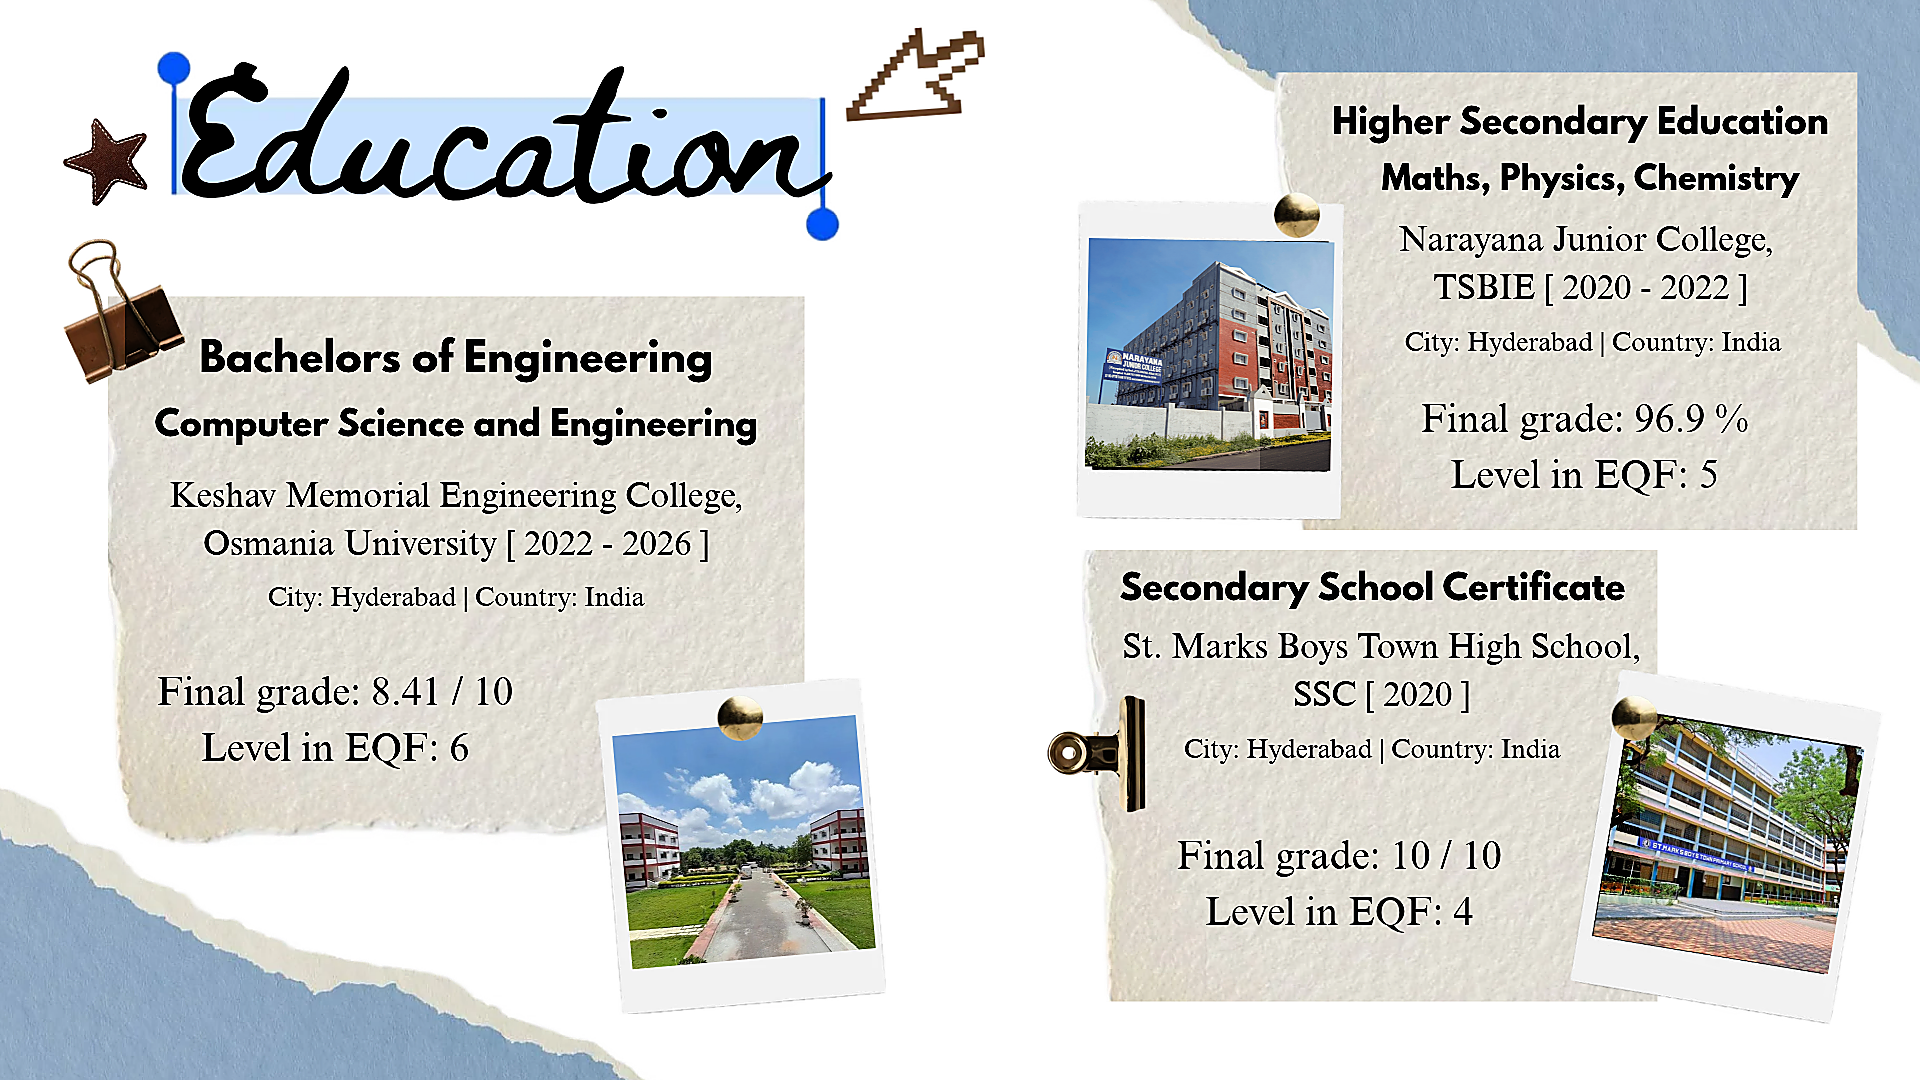
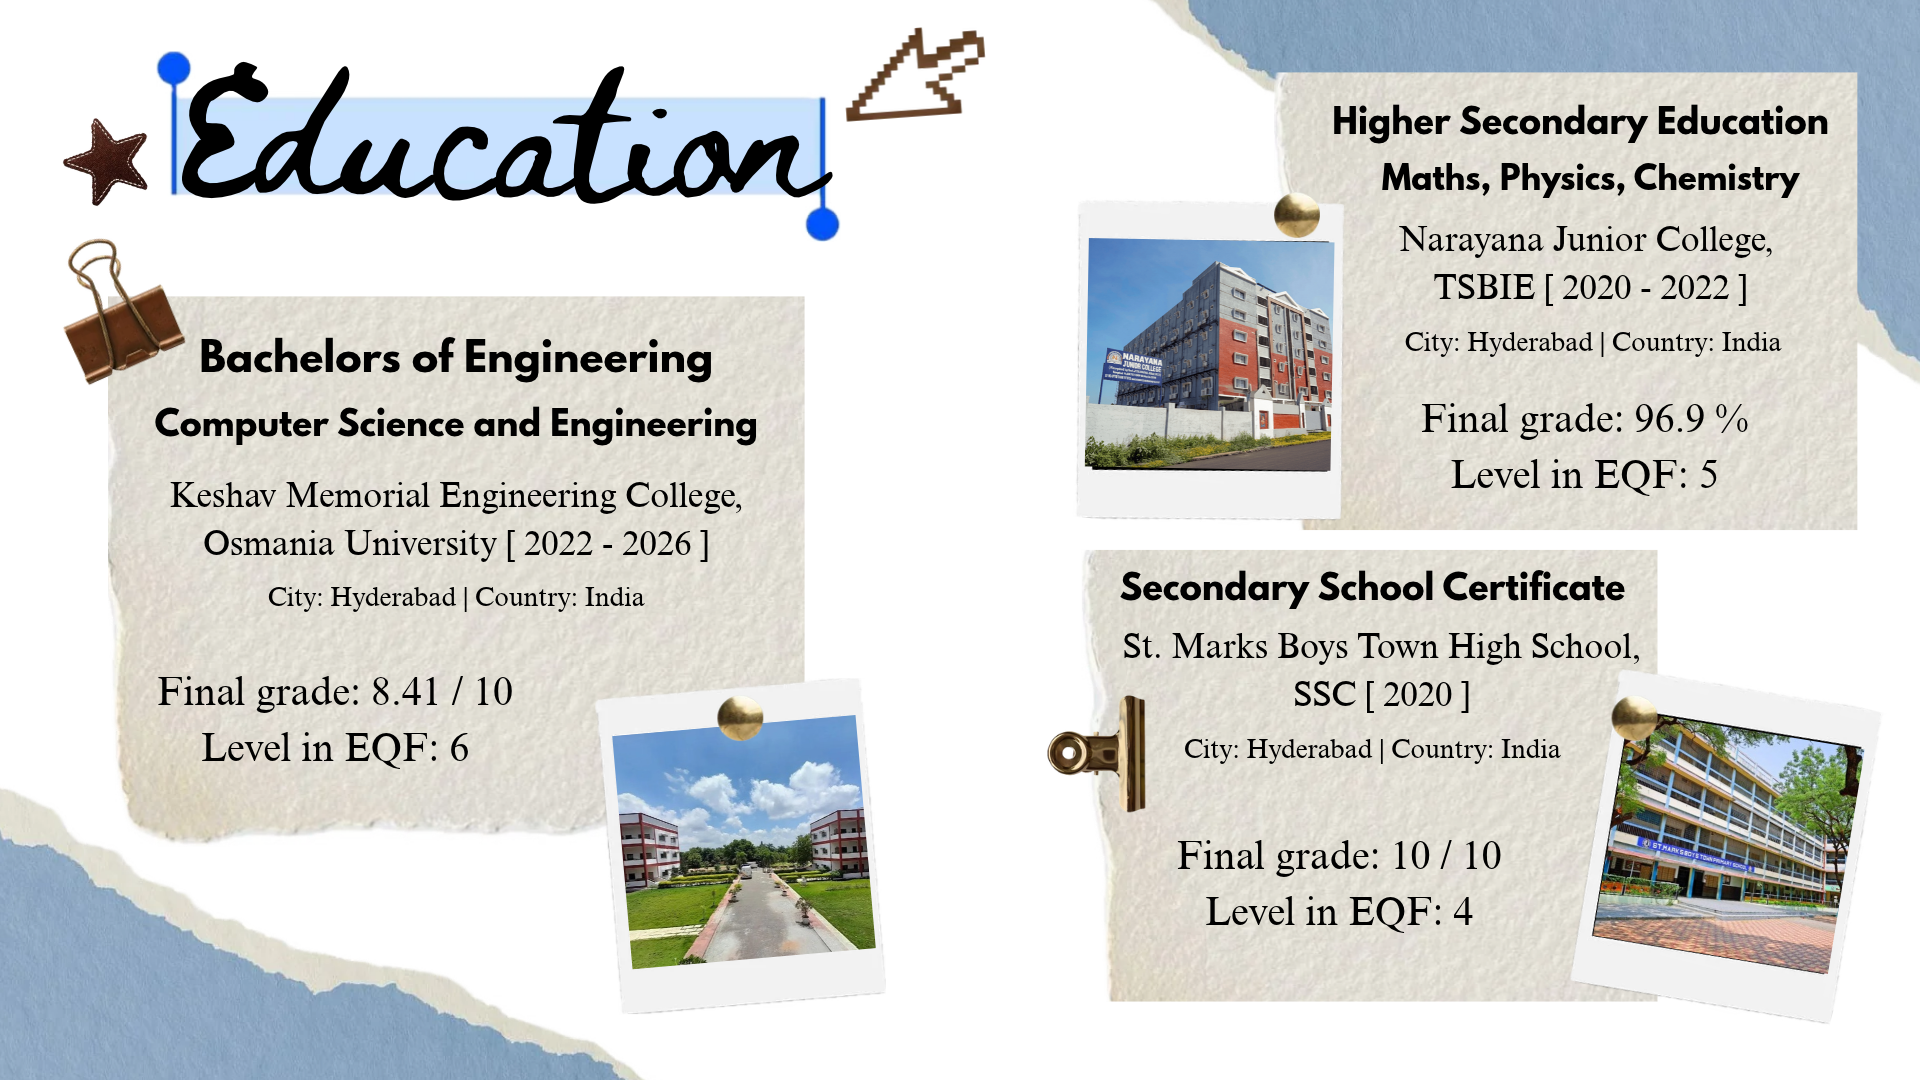
fix(education): restore Page1.png master design from Designs folder on Page 1 spread

diff --git a/src/components/portfolio/SpreadEducationCanvas.tsx b/src/components/portfolio/SpreadEducationCanvas.tsx
@@ -6,9 +6,15 @@ interface SpreadProps {
 
 export const SpreadEducationCanvas: React.FC<SpreadProps> = ({ className = '' }) => {
   return (
-    <div className={`relative w-full h-full select-none overflow-hidden bg-[#fbf9f5] ${className}`}>
-      {/* Clean Empty Spread with subtle paper texture */}
-      <div className="absolute inset-0 opacity-[0.035] pointer-events-none bg-[radial-gradient(#000_1px,transparent_1px)] [background-size:16px_16px]" />
+    <div className={`relative w-full h-full select-none overflow-hidden bg-white ${className}`}>
+      {/* Master Design from Designs/Page1.png */}
+      <img
+        src="/designs/Page1.png"
+        alt="Education Spread"
+        loading="eager"
+        fetchPriority="high"
+        className="w-full h-full object-fill pointer-events-none select-none"
+      />
     </div>
   )
 }
